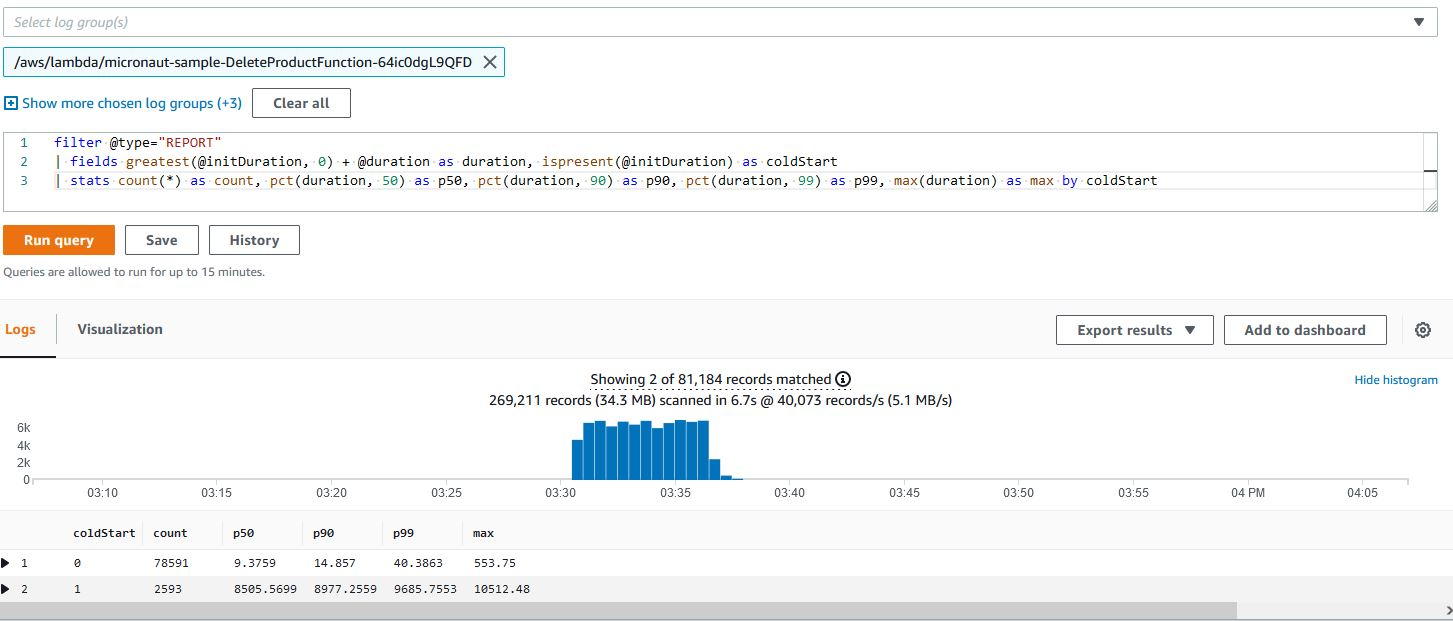
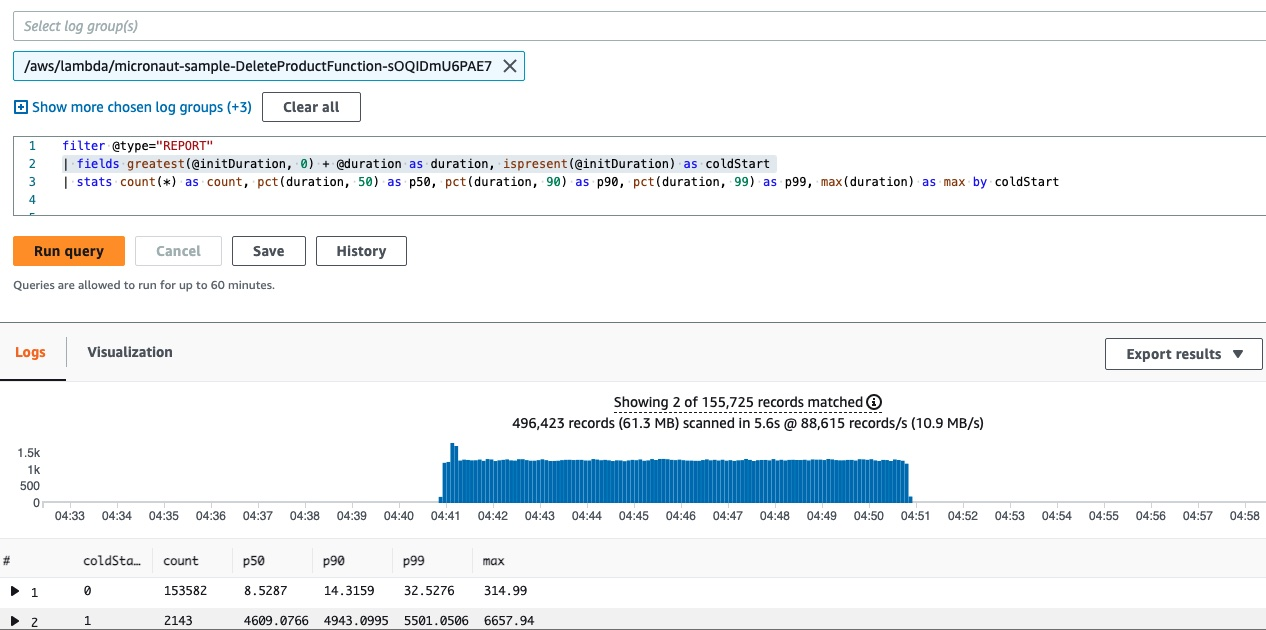
Upgrade runtime to java11 for Micronaut snapstart samples

diff --git a/README.md b/README.md
@@ -69,7 +69,7 @@ All latencies listed below are in milliseconds.
             <th scope="col">max</th>
         </tr>        
         <tr>
-            <th>Micronaut</th>
+            <th>Micronaut (Java 17)</th>
             <td>4609.07</td>
             <td>4943.09</td>
             <td>5501.05</td>
@@ -137,15 +137,15 @@ It fits particularly well with Lambda to reduce the initialization time, but doe
             <th scope="col">max</th>
         </tr>
         <tr>
-            <th>Micronaut</th>
-            <td>670.31</td>
-            <td>740.03</td>
-            <td>862.31</td>
-            <td>980.73</td>
-            <td>8.52</td>
-            <td>13.50</td>
-            <td>29.40</td>
-            <td>235.33</td>
+            <th>Micronaut (Java 17)</th>
+            <td>726.11</td>
+            <td>815.37</td>
+            <td>931.30</td>
+            <td>1047.49</td>
+            <td>7.68</td>
+            <td>12.30</td>
+            <td>28.18</td>
+            <td>244.82</td>
         </tr>
         <tr>
             <th>Quarkus</th>

diff --git a/micronaut/README.md b/micronaut/README.md
@@ -90,7 +90,7 @@ filter @type="REPORT"
 ```
 
 <p align="center">
-  <img src="../imgs/micronaut/micronaut-sample-log-insights.JPG" alt="JVM Version Log Insights"/>
+  <img src="../imgs/micronaut/micronaut-sample-log-insights.jpg" alt="JVM Version Log Insights"/>
 </p>
 
 **Latency for SnapStart version:**
